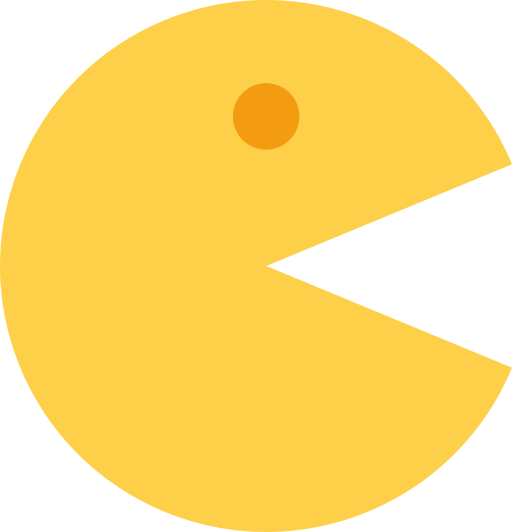
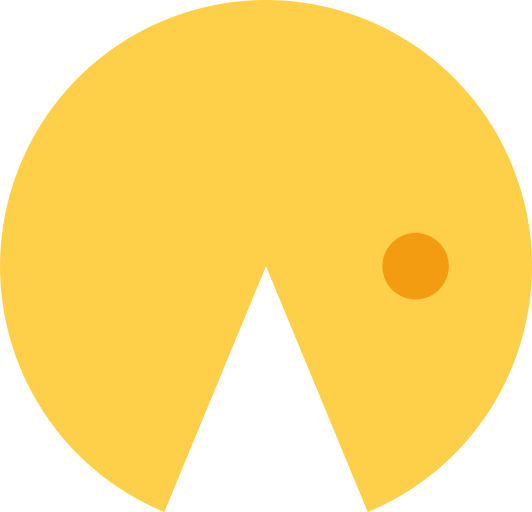
55:49

diff --git a/gamejs/code/pacman.js b/gamejs/code/pacman.js
@@ -49,6 +49,8 @@ const ghosts = new Set();
 
 let pacman;
 
+const directions = ["U", "D", "L", "R"];
+
 window.onload = function () {
   board = this.document.getElementById("board");
   board.height = boardHeight;
@@ -59,6 +61,12 @@ window.onload = function () {
   loadMap();
   // start the game
   update();
+  // randoem direction evertime game load for ghost
+  for (let ghost of ghosts.values()) {
+    const newDirection =
+      directions[Math.floor(Math.random() * directions.length)];
+    ghost.updateDirection(newDirection);
+  }
 
   // event listener
   document.addEventListener("keyup", movePacman);
@@ -100,6 +108,41 @@ function draw() {
 function move() {
   pacman.x += pacman.velocityX;
   pacman.y += pacman.velocityY;
+  // check wall collisions
+  for (let wall of walls.values()) {
+    if (collision(pacman, wall)) {
+      pacman.x -= pacman.velocityX;
+      pacman.y -= pacman.velocityY;
+      break;
+    }
+  }
+
+  // ghost move
+  for (let ghost of ghosts.values()) {
+    if (
+      ghost.y == tileSize * 9 &&
+      ghost.direction != "U" &&
+      ghost.direction != "D"
+    ) {
+      ghost.updateDirection("U");
+    }
+    ghost.x += ghost.velocityX;
+    ghost.y += ghost.velocityY;
+    // check ghost collison
+    for (let wall of walls.values()) {
+      if (
+        collision(ghost, wall) ||
+        ghost.x <= 0 ||
+        ghost.x + ghost.width >= boardWidth
+      ) {
+        ghost.x -= ghost.velocityX;
+        ghost.y -= ghost.velocityY;
+        const newDirection =
+          directions[Math.floor(Math.random() * directions.length)];
+        ghost.updateDirection(newDirection);
+      }
+    }
+  }
 }
 
 function movePacman(e) {
@@ -111,6 +154,16 @@ function movePacman(e) {
     pacman.updateDirection("L");
   } else if (e.code == "ArrowRight" || e.code == "KeyD") {
     pacman.updateDirection("R");
+  }
+  // update pacman image
+  if (pacman.direction == "U") {
+    pacman.image = pacmanUpImage;
+  } else if (pacman.direction == "D") {
+    pacman.image = pacmanDownImage;
+  } else if (pacman.direction == "R") {
+    pacman.image = pacmanRightImage;
+  } else if (pacman.direction == "L") {
+    pacman.image = pacmanLeftImage;
   }
 }
 
@@ -187,6 +240,16 @@ function loadMap() {
   }
 }
 
+// check va cham giua 2 rectangle
+function collision(a, b) {
+  return (
+    a.x < b.x + b.width &&
+    a.x + a.width > b.x &&
+    a.y < b.y + b.height &&
+    a.y + a.height > b.y
+  );
+}
+
 class Block {
   constructor(image, x, y, width, height) {
     this.image = image;
@@ -204,8 +267,22 @@ class Block {
   }
 
   updateDirection(direction) {
+    const preventDirection = this.direction;
     this.direction = direction;
     this.updateVelocity();
+    this.x += this.velocityX;
+    this.y += this.velocityY;
+
+    for (let wall of walls.values()) {
+      // this refer to this block class (pacman, ghost..)
+      if (collision(this, wall)) {
+        this.x -= this.velocityX;
+        this.y -= this.velocityY;
+        this.direction = preventDirection;
+        this.updateVelocity();
+        return;
+      }
+    }
   }
 
   updateVelocity() {
